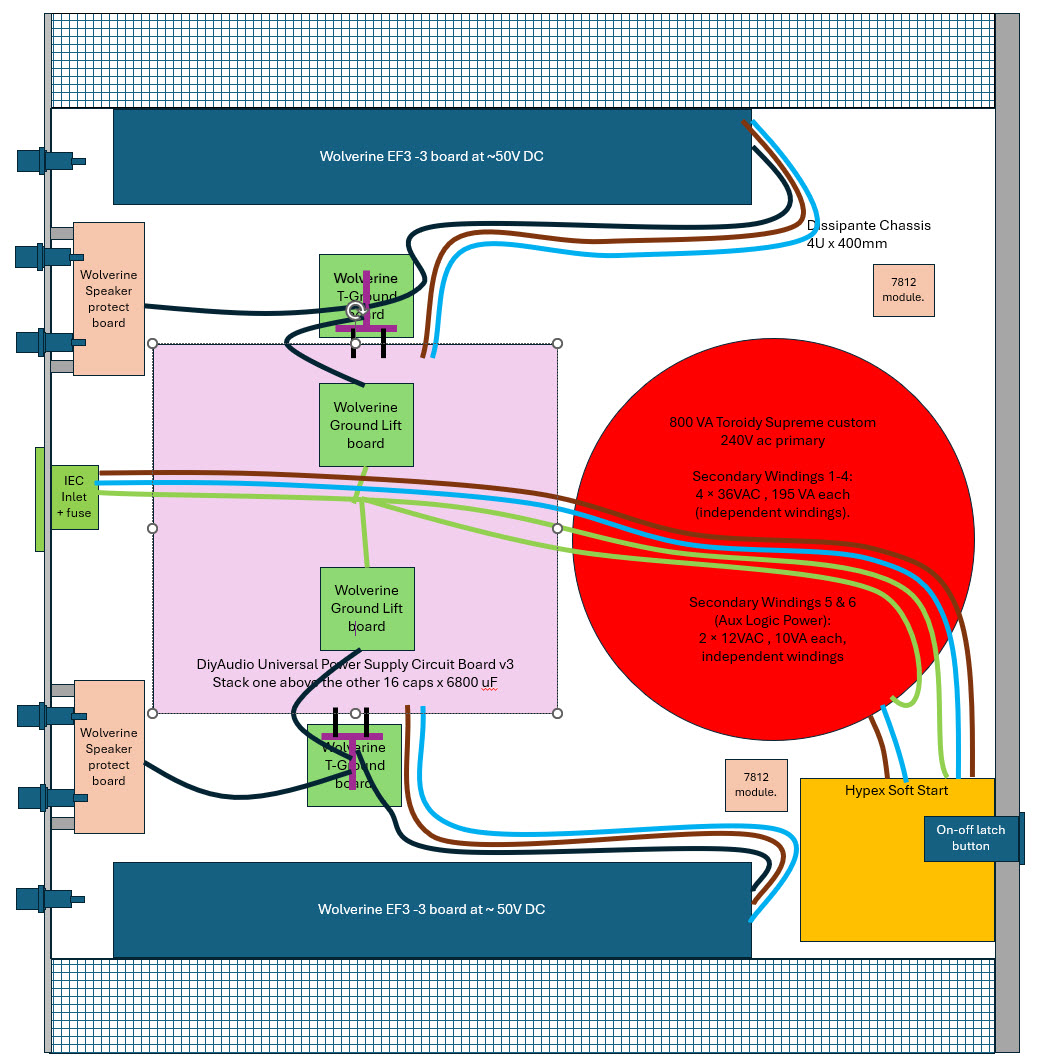
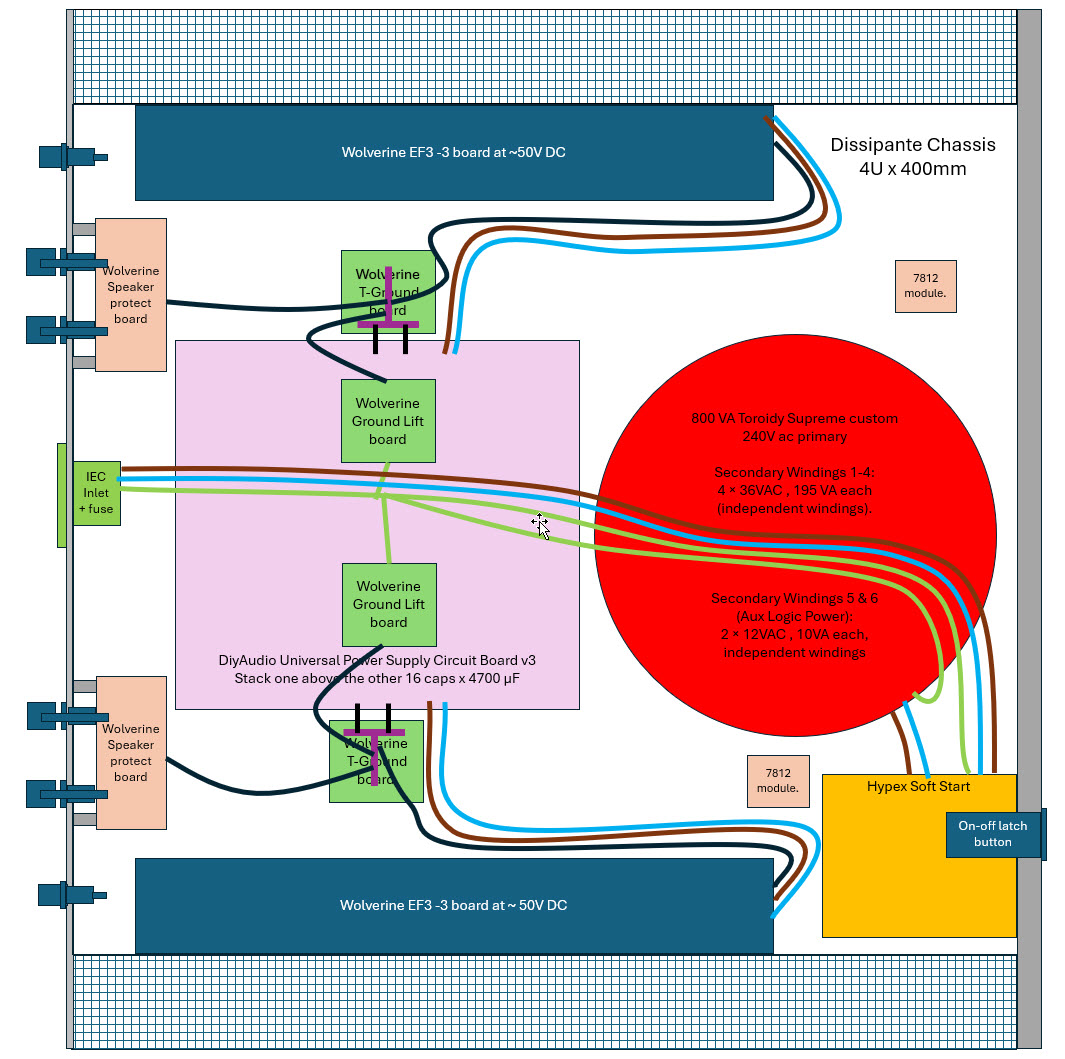
update sharedtx diagram

diff --git a/site/index.html b/site/index.html
@@ -548,6 +548,7 @@
 <p>Welcome to Ian-Audio's Wolverine based HiFi System Design site.</p>
 <p>Note this is not official Wolverine documentation.</p>
 <p>This documents tailoring a pre and power amplifier, to suit my preferences, needs and constraints. </p>
+<p>Thanks to those from the diyAudio wolverine community who have been helping me, especially Stuartmp and Mainframe. </p>
 <h2 id="contents">Contents</h2>
 <ul>
 <li>Objectives</li>

diff --git a/docs/index.md b/docs/index.md
@@ -6,6 +6,7 @@ Note this is not official Wolverine documentation.
 
 This documents tailoring a pre and power amplifier, to suit my preferences, needs and constraints. 
 
+Thanks to those from the diyAudio wolverine community who have been helping me, especially Stuartmp and Mainframe. 
 
 ## Contents
 
